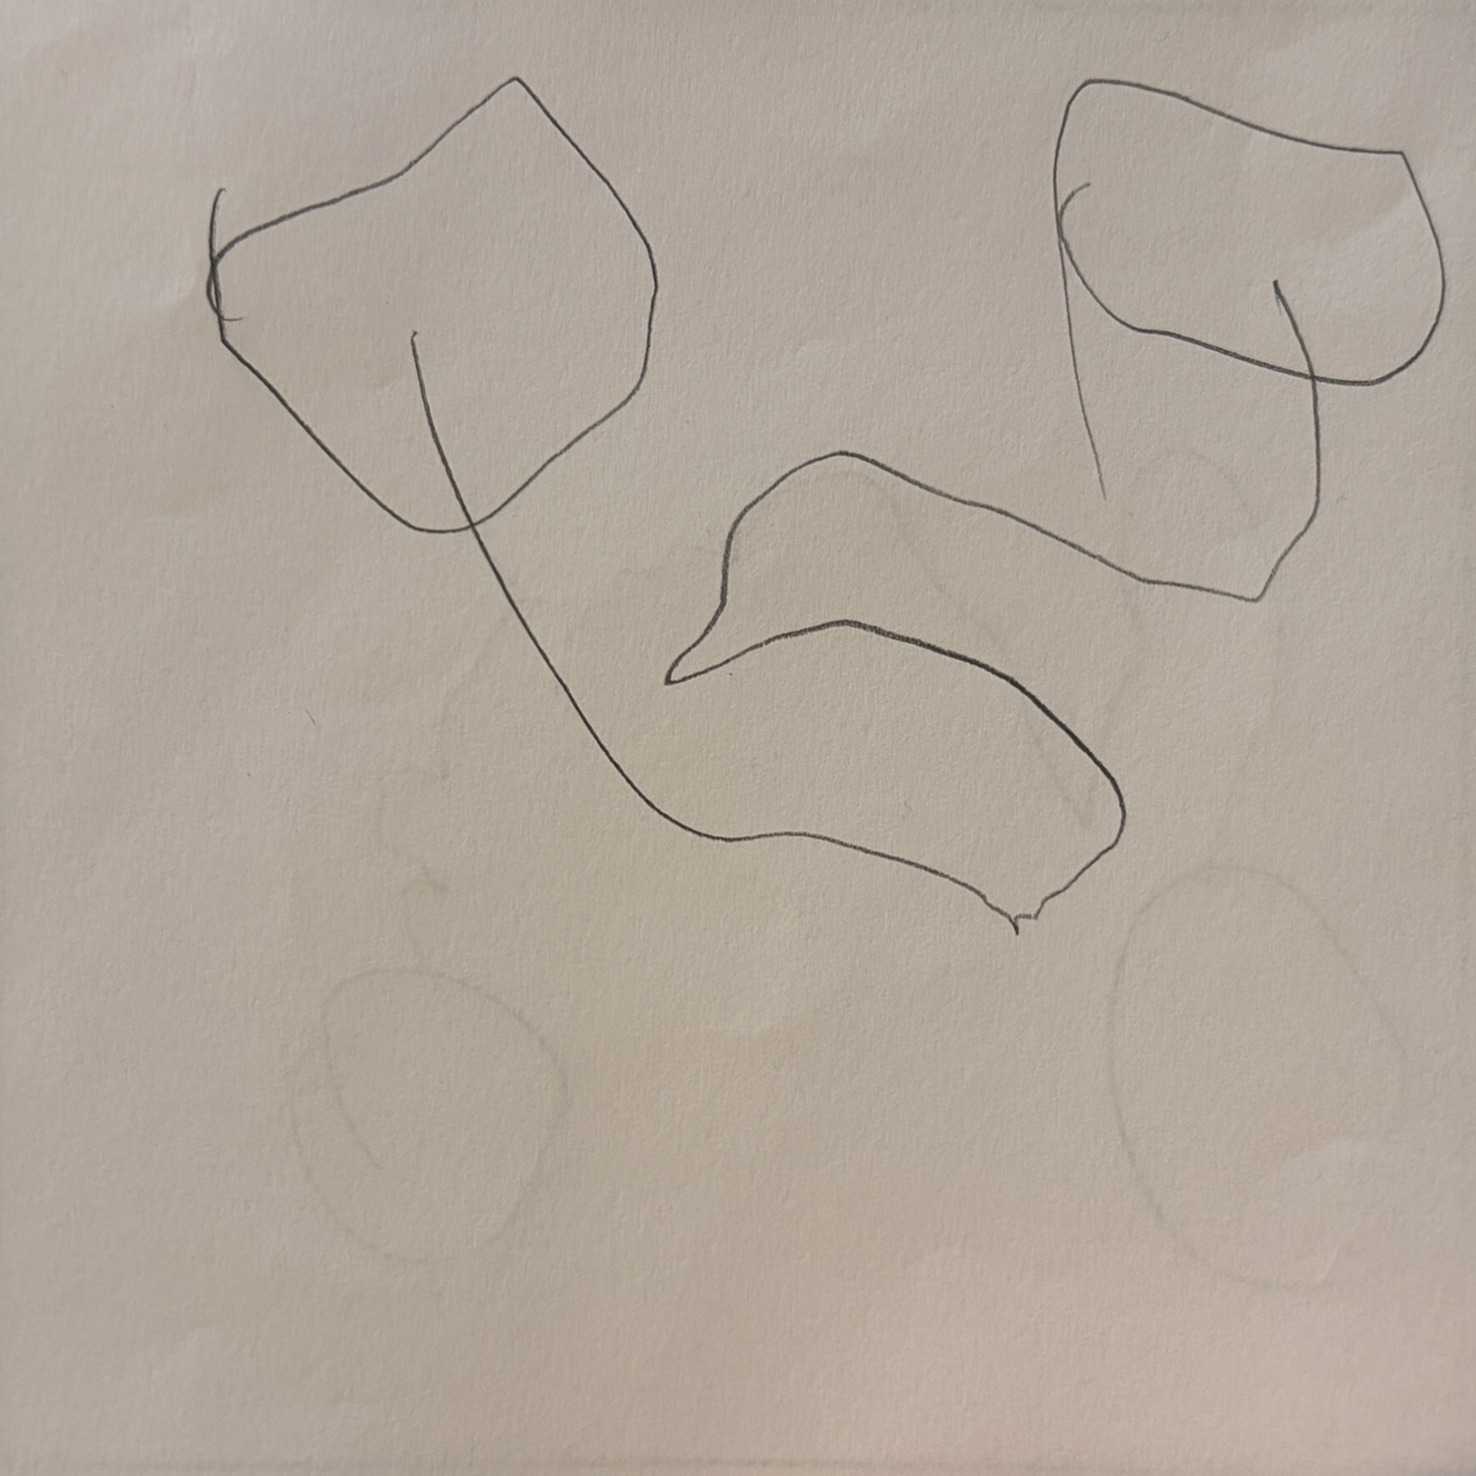
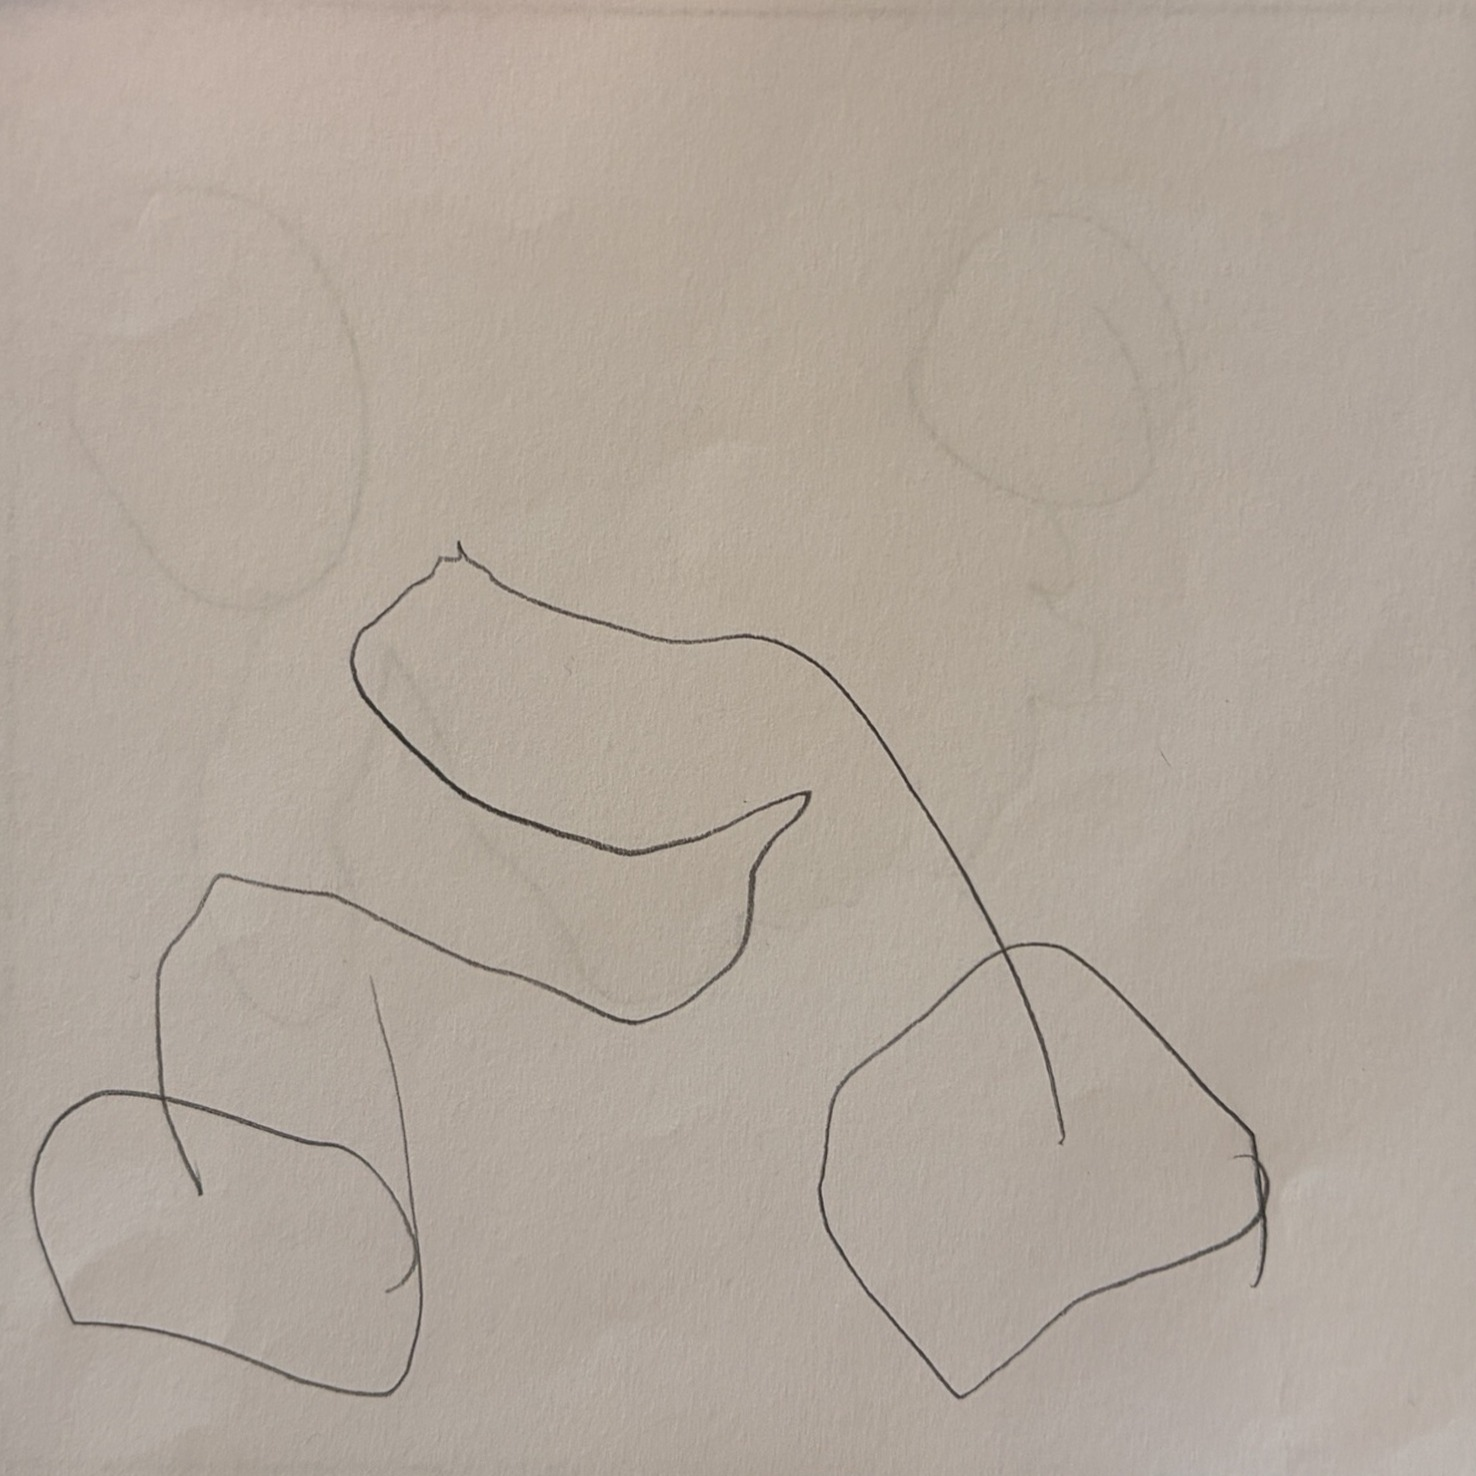
Rotate leka sketch 180° (now 90° CW from original)
Claude-Session: https://claude.ai/code/session_011Wb6YnBaozZMojRCScyXBW

diff --git a/AGENTS.md b/AGENTS.md
@@ -92,5 +92,5 @@ Still to verify by hand: domains (sketchstamp.com / .app / .io), App Store and G
 - 2026-11-05 — Added `storage/vanjakom/16.45870@48.24157@20261104.jpg`. Drawn on the back of a geocache sheet (GCBWT3X), date on paper written as 20241104, stored as 20261104 (assumed typo).
 - 2026-11-05 — Added `storage/vanjakom/16.31857@48.11218@20261104.jpg` (Vapiano). Same 2024→2026 date fix.
 - 2026-11-05 — Added `storage/vanjakom/16.49844@48.25222@20261105.jpg` (motel22, room 105, view of the garden). Photo was backlit against a window, so the paper tone is darker than the others; kept as is.
-- 2026-11-05 — Second user `leka`: added `storage/leka/21.89522@43.32345@20261018.jpg` (Trabant, Nišville, Niš Fortress). Rotated 90° CCW: drawn sideways on the sheet.
+- 2026-11-05 — Second user `leka`: added `storage/leka/21.89522@43.32345@20261018.jpg` (Trabant, Nišville, Niš Fortress). Rotated 90° CW: drawn sideways on the sheet.
 - 2026-11-05 — Third user `vera`: added `storage/vera/21.89534@43.32332@20261018.jpg` (Niš Fortress gate, colored pencils). Same spot and day as leka's — first place with sketches from two users.
